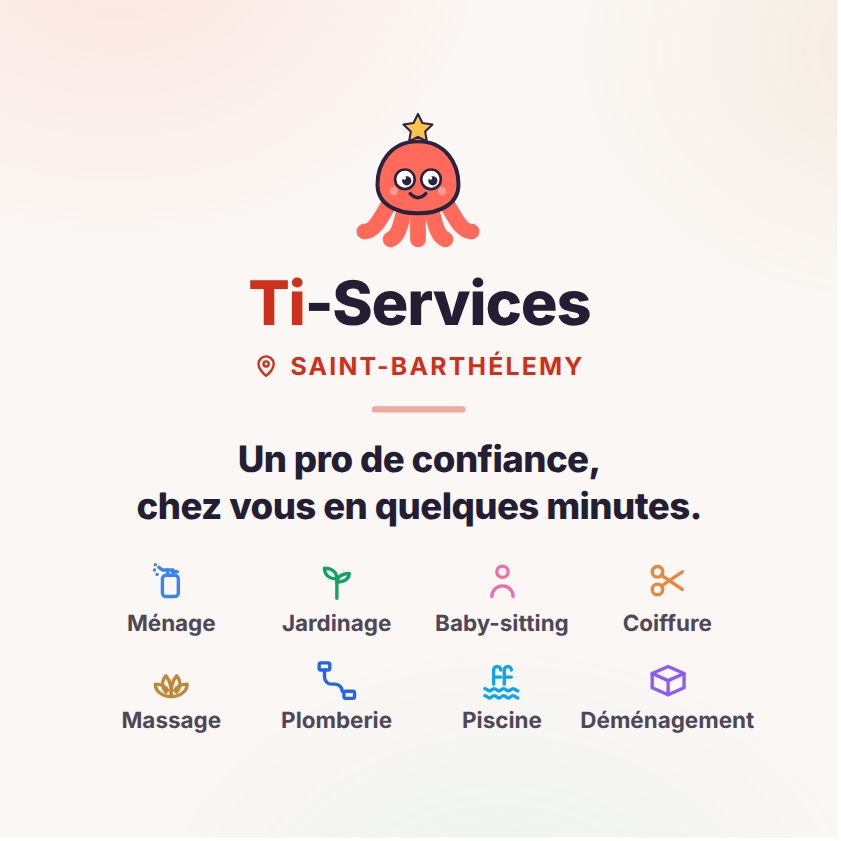
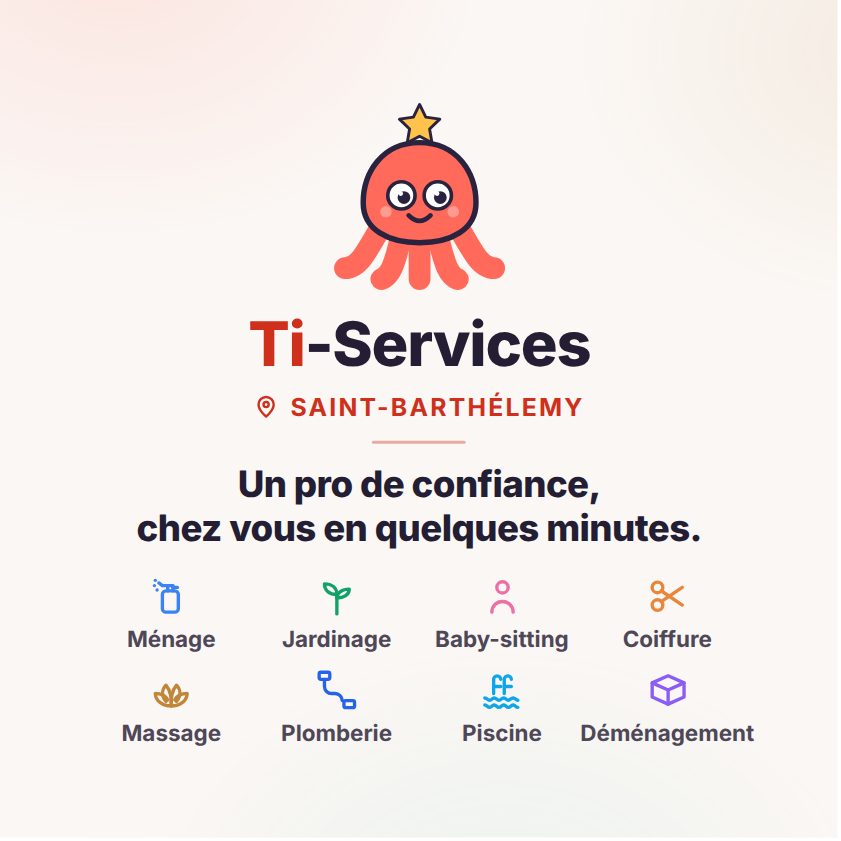
Zouti grossit, la date d'ouverture quitte la carte
Trois retouches demandées sur les cartes de visite.

LA DATE D'OUVERTURE PART. Le verso prestataire annonçait « les services
ouvrent le 1er octobre » ; il reprend la promesse qui ne périme pas — « zéro
abonnement · paiement garanti », les pastilles de confiance de la vitrine. Une
carte se garde des mois, une date passe.

ZOUTI GROSSIT DE 39 % — 12,5 à 17,4 mm de haut. « C'est ce qui attire l'œil. »
Les millimètres viennent des espacements (le filet, la grille des métiers,
l'écart sous le logo), JAMAIS de la marge de sécurité : le script la mesure et
refuse d'écrire un PDF qui la mord. Mesuré après : 8,0 mm sur le recto client —
la limite exacte, et c'est voulu, la carte est pleine.

LA PHRASE DU PRESTATAIRE dit maintenant le parcours entier plutôt que la
liberté : « Une notification, une mission, une facture et un paiement
automatique. » Le retour à la ligne est écrit — laissée à l'équilibrage
automatique, elle coupait après « une », qui ne veut rien dire en fin de ligne.

Au passage, le pied du verso prestataire tenait sur deux lignes avec le point
médian en tête de la seconde : sa mesure passe à 50 mm, il tient sur une ligne
comme celui du verso client.

Claude-Session: https://claude.ai/code/session_01B1qVriNodXiFWvRCrD4uyG

diff --git a/outils/cartes/carte-pro-verso.html b/outils/cartes/carte-pro-verso.html
@@ -31,14 +31,17 @@
      après coup : la grille des métiers a coûté une dizaine de millimètres de hauteur, et
      tout le bloc du haut les a rendus. Toucher l'une de ces valeurs demande de relancer —
      le script refuse d'écrire un PDF dont le contenu déborde. */
-  .zouti{width:11.5mm;height:auto;display:block}
-  .mot{font-weight:800;font-size:5.2mm;letter-spacing:-.02em;line-height:1;margin-top:1.8mm}
+  /* ZOUTI EST CE QUI ATTIRE L'ŒIL : c'est lui qu'on agrandit, et les millimètres qu'il
+     prend viennent des espacements — jamais de la marge de sécurité, que le script
+     vérifie. */
+  .zouti{width:16mm;height:auto;display:block}
+  .mot{font-weight:800;font-size:5.2mm;letter-spacing:-.02em;line-height:1;margin-top:1.4mm}
   .mot b{color:#CE301C;font-weight:800}
   .mot span{color:#231E33}
   .lieu{display:flex;align-items:center;justify-content:center;gap:.9mm;margin-top:1.2mm;
     font-size:2.1mm;font-weight:700;letter-spacing:.09em;text-transform:uppercase;color:#CE301C}
   .lieu svg{width:2.2mm;height:2.2mm}
-  .filet{width:8mm;height:.4mm;border-radius:.4mm;background:#CE301C;opacity:.38;margin:2.2mm 0}
+  .filet{width:8mm;height:.4mm;border-radius:.4mm;background:#CE301C;opacity:.38;margin:1.4mm 0}
   .punch{font-size:3.1mm;font-weight:800;line-height:1.25;letter-spacing:-.015em;color:#231E33;
     text-wrap:balance}
   .services{margin-top:2.8mm;font-size:2.05mm;line-height:1.55;font-weight:500;color:#766F7D;
@@ -47,7 +50,7 @@
      qu'on ait lu son nom, et c'est ce qui fait comprendre « service à domicile » d'un
      regard. Les colonnes sont égales et le nom tient sur UNE ligne — un nom qui passerait
      à deux décalerait sa rangée. */
-  .metiers{margin-top:2.6mm;display:grid;grid-template-columns:repeat(4,1fr);gap:2mm 1mm;width:100%}
+  .metiers{margin-top:2mm;display:grid;grid-template-columns:repeat(4,1fr);gap:1.6mm 1mm;width:100%}
   .metier{display:flex;flex-direction:column;align-items:center;gap:.8mm;min-width:0}
   .metier svg{width:3.6mm;height:3.6mm;display:block;stroke-width:1.9}
   .metier span{font-size:1.9mm;font-weight:600;line-height:1;color:#4E4757;
@@ -65,7 +68,7 @@
      avant le rendu. Une carte n'a pas de place à gaspiller : ce qui tient dans la colonne
      est ce qui rentre. */
   .v-pied{margin-top:2.2mm;font-size:2mm;font-weight:700;letter-spacing:.06em;
-    text-transform:uppercase;color:#fff;opacity:.78;max-width:46mm;text-wrap:balance}
+    text-transform:uppercase;color:#fff;opacity:.78;max-width:50mm;text-wrap:balance}
 
   @page{size:71mm 71mm;margin:0}
   @media print{html,body{margin:0}}</style></head><body><div class="carte verso">
@@ -73,5 +76,5 @@
   <div class="v-titre">Inscrivez-vous</div>
   <div class="tuile"><svg viewBox="0 0 37 37" width="400" height="400" shape-rendering="crispEdges" aria-label="QR-code Ti-Services"><rect width="37" height="37" fill="#fff"/><path d="M4 4h7v1h-7zM12 4h1v1h-1zM14 4h3v1h-3zM19 4h5v1h-5zM26 4h7v1h-7zM4 5h1v1h-1zM10 5h1v1h-1zM12 5h1v1h-1zM14 5h1v1h-1zM16 5h1v1h-1zM18 5h2v1h-2zM22 5h1v1h-1zM24 5h1v1h-1zM26 5h1v1h-1zM32 5h1v1h-1zM4 6h1v1h-1zM6 6h3v1h-3zM10 6h1v1h-1zM15 6h1v1h-1zM17 6h3v1h-3zM22 6h1v1h-1zM26 6h1v1h-1zM28 6h3v1h-3zM32 6h1v1h-1zM4 7h1v1h-1zM6 7h3v1h-3zM10 7h1v1h-1zM12 7h2v1h-2zM15 7h1v1h-1zM20 7h3v1h-3zM24 7h1v1h-1zM26 7h1v1h-1zM28 7h3v1h-3zM32 7h1v1h-1zM4 8h1v1h-1zM6 8h3v1h-3zM10 8h1v1h-1zM14 8h1v1h-1zM16 8h2v1h-2zM22 8h2v1h-2zM26 8h1v1h-1zM28 8h3v1h-3zM32 8h1v1h-1zM4 9h1v1h-1zM10 9h1v1h-1zM18 9h1v1h-1zM21 9h3v1h-3zM26 9h1v1h-1zM32 9h1v1h-1zM4 10h7v1h-7zM12 10h1v1h-1zM14 10h1v1h-1zM16 10h1v1h-1zM18 10h1v1h-1zM20 10h1v1h-1zM22 10h1v1h-1zM24 10h1v1h-1zM26 10h7v1h-7zM12 11h1v1h-1zM14 11h1v1h-1zM17 11h2v1h-2zM21 11h3v1h-3zM4 12h1v1h-1zM6 12h2v1h-2zM9 12h3v1h-3zM16 12h3v1h-3zM20 12h4v1h-4zM26 12h1v1h-1zM29 12h1v1h-1zM31 12h2v1h-2zM4 13h1v1h-1zM7 13h1v1h-1zM11 13h1v1h-1zM13 13h4v1h-4zM19 13h2v1h-2zM23 13h6v1h-6zM32 13h1v1h-1zM6 14h1v1h-1zM10 14h1v1h-1zM14 14h2v1h-2zM18 14h2v1h-2zM21 14h1v1h-1zM24 14h2v1h-2zM28 14h1v1h-1zM30 14h2v1h-2zM4 15h1v1h-1zM8 15h2v1h-2zM12 15h2v1h-2zM16 15h4v1h-4zM24 15h3v1h-3zM32 15h1v1h-1zM7 16h1v1h-1zM9 16h2v1h-2zM14 16h1v1h-1zM20 16h2v1h-2zM23 16h1v1h-1zM27 16h1v1h-1zM29 16h2v1h-2zM5 17h2v1h-2zM9 17h1v1h-1zM11 17h2v1h-2zM14 17h4v1h-4zM21 17h6v1h-6zM30 17h3v1h-3zM5 18h1v1h-1zM8 18h1v1h-1zM10 18h3v1h-3zM16 18h1v1h-1zM18 18h1v1h-1zM21 18h1v1h-1zM23 18h2v1h-2zM26 18h2v1h-2zM30 18h3v1h-3zM4 19h2v1h-2zM7 19h1v1h-1zM9 19h1v1h-1zM11 19h5v1h-5zM17 19h1v1h-1zM19 19h1v1h-1zM22 19h2v1h-2zM25 19h3v1h-3zM31 19h1v1h-1zM5 20h2v1h-2zM8 20h5v1h-5zM16 20h1v1h-1zM22 20h1v1h-1zM25 20h1v1h-1zM27 20h3v1h-3zM31 20h1v1h-1zM5 21h1v1h-1zM7 21h1v1h-1zM12 21h1v1h-1zM15 21h1v1h-1zM17 21h1v1h-1zM21 21h1v1h-1zM24 21h2v1h-2zM29 21h3v1h-3zM4 22h1v1h-1zM6 22h7v1h-7zM14 22h2v1h-2zM21 22h1v1h-1zM24 22h1v1h-1zM27 22h2v1h-2zM30 22h1v1h-1zM11 23h3v1h-3zM15 23h1v1h-1zM19 23h4v1h-4zM26 23h3v1h-3zM30 23h1v1h-1zM5 24h1v1h-1zM8 24h5v1h-5zM14 24h2v1h-2zM17 24h1v1h-1zM19 24h1v1h-1zM23 24h8v1h-8zM12 25h1v1h-1zM15 25h1v1h-1zM17 25h3v1h-3zM21 25h2v1h-2zM24 25h1v1h-1zM28 25h5v1h-5zM4 26h7v1h-7zM12 26h1v1h-1zM14 26h1v1h-1zM17 26h1v1h-1zM20 26h1v1h-1zM22 26h3v1h-3zM26 26h1v1h-1zM28 26h2v1h-2zM31 26h1v1h-1zM4 27h1v1h-1zM10 27h1v1h-1zM12 27h5v1h-5zM20 27h2v1h-2zM24 27h1v1h-1zM28 27h2v1h-2zM31 27h1v1h-1zM4 28h1v1h-1zM6 28h3v1h-3zM10 28h1v1h-1zM13 28h1v1h-1zM15 28h1v1h-1zM18 28h2v1h-2zM24 28h5v1h-5zM30 28h3v1h-3zM4 29h1v1h-1zM6 29h3v1h-3zM10 29h1v1h-1zM12 29h2v1h-2zM17 29h2v1h-2zM20 29h2v1h-2zM23 29h1v1h-1zM25 29h1v1h-1zM27 29h3v1h-3zM31 29h1v1h-1zM4 30h1v1h-1zM6 30h3v1h-3zM10 30h1v1h-1zM12 30h3v1h-3zM17 30h4v1h-4zM23 30h1v1h-1zM27 30h1v1h-1zM30 30h1v1h-1zM32 30h1v1h-1zM4 31h1v1h-1zM10 31h1v1h-1zM13 31h1v1h-1zM17 31h2v1h-2zM20 31h1v1h-1zM24 31h3v1h-3zM28 31h2v1h-2zM31 31h1v1h-1zM4 32h7v1h-7zM12 32h1v1h-1zM14 32h2v1h-2zM17 32h1v1h-1zM19 32h3v1h-3zM23 32h3v1h-3zM29 32h1v1h-1zM31 32h1v1h-1z" fill="#20233A"/></svg></div>
   <div class="v-url">ti-services.fr</div>
-  <div class="v-pied">Les services ouvrent le 1er octobre</div>
+  <div class="v-pied">Zéro abonnement · paiement garanti</div>
 </div></body></html>

diff --git a/outils/cartes-visite.js b/outils/cartes-visite.js
@@ -143,10 +143,12 @@ const CARTES = [
     cle: 'pro',
     url: 'https://ti-services.fr/?pro',
     punch: 'Des clients,<br>sans prospecter.',
-    services: 'Vous choisissez vos missions · Vous êtes payé après validation',
+    // Le retour est écrit : laissée à l'équilibrage automatique, la phrase coupait après
+    // « une », qui ne veut rien dire tout seul en fin de ligne.
+    services: 'Une notification, une mission,<br>une facture et un paiement automatique',
     metiers: null,
     versoTitre: 'Inscrivez-vous',
-    versoPied: 'Les services ouvrent le 1er octobre'
+    versoPied: 'Zéro abonnement · paiement garanti'
   }
 ];
 
@@ -180,14 +182,17 @@ function feuille(c, polices) {
      après coup : la grille des métiers a coûté une dizaine de millimètres de hauteur, et
      tout le bloc du haut les a rendus. Toucher l'une de ces valeurs demande de relancer —
      le script refuse d'écrire un PDF dont le contenu déborde. */
-  .zouti{width:11.5mm;height:auto;display:block}
-  .mot{font-weight:800;font-size:5.2mm;letter-spacing:-.02em;line-height:1;margin-top:1.8mm}
+  /* ZOUTI EST CE QUI ATTIRE L'ŒIL : c'est lui qu'on agrandit, et les millimètres qu'il
+     prend viennent des espacements — jamais de la marge de sécurité, que le script
+     vérifie. */
+  .zouti{width:16mm;height:auto;display:block}
+  .mot{font-weight:800;font-size:5.2mm;letter-spacing:-.02em;line-height:1;margin-top:1.4mm}
   .mot b{color:${c['teal-deep']};font-weight:800}
   .mot span{color:${c['ink']}}
   .lieu{display:flex;align-items:center;justify-content:center;gap:.9mm;margin-top:1.2mm;
     font-size:2.1mm;font-weight:700;letter-spacing:.09em;text-transform:uppercase;color:${c['teal-deep']}}
   .lieu svg{width:2.2mm;height:2.2mm}
-  .filet{width:8mm;height:.4mm;border-radius:.4mm;background:${c['teal-deep']};opacity:.38;margin:2.2mm 0}
+  .filet{width:8mm;height:.4mm;border-radius:.4mm;background:${c['teal-deep']};opacity:.38;margin:1.4mm 0}
   .punch{font-size:3.1mm;font-weight:800;line-height:1.25;letter-spacing:-.015em;color:${c['ink']};
     text-wrap:balance}
   .services{margin-top:2.8mm;font-size:2.05mm;line-height:1.55;font-weight:500;color:${c['muted']};
@@ -196,7 +201,7 @@ function feuille(c, polices) {
      qu'on ait lu son nom, et c'est ce qui fait comprendre « service à domicile » d'un
      regard. Les colonnes sont égales et le nom tient sur UNE ligne — un nom qui passerait
      à deux décalerait sa rangée. */
-  .metiers{margin-top:2.6mm;display:grid;grid-template-columns:repeat(4,1fr);gap:2mm 1mm;width:100%}
+  .metiers{margin-top:2mm;display:grid;grid-template-columns:repeat(4,1fr);gap:1.6mm 1mm;width:100%}
   .metier{display:flex;flex-direction:column;align-items:center;gap:.8mm;min-width:0}
   .metier svg{width:3.6mm;height:3.6mm;display:block;stroke-width:1.9}
   .metier span{font-size:1.9mm;font-weight:600;line-height:1;color:${c['ink-soft']};
@@ -214,7 +219,7 @@ function feuille(c, polices) {
      avant le rendu. Une carte n'a pas de place à gaspiller : ce qui tient dans la colonne
      est ce qui rentre. */
   .v-pied{margin-top:2.2mm;font-size:2mm;font-weight:700;letter-spacing:.06em;
-    text-transform:uppercase;color:#fff;opacity:.78;max-width:46mm;text-wrap:balance}
+    text-transform:uppercase;color:#fff;opacity:.78;max-width:50mm;text-wrap:balance}
 
   @page{size:${MM.page}mm ${MM.page}mm;margin:0}
   @media print{html,body{margin:0}}`;

diff --git a/outils/cartes/carte-pro-recto.html b/outils/cartes/carte-pro-recto.html
@@ -31,14 +31,17 @@
      après coup : la grille des métiers a coûté une dizaine de millimètres de hauteur, et
      tout le bloc du haut les a rendus. Toucher l'une de ces valeurs demande de relancer —
      le script refuse d'écrire un PDF dont le contenu déborde. */
-  .zouti{width:11.5mm;height:auto;display:block}
-  .mot{font-weight:800;font-size:5.2mm;letter-spacing:-.02em;line-height:1;margin-top:1.8mm}
+  /* ZOUTI EST CE QUI ATTIRE L'ŒIL : c'est lui qu'on agrandit, et les millimètres qu'il
+     prend viennent des espacements — jamais de la marge de sécurité, que le script
+     vérifie. */
+  .zouti{width:16mm;height:auto;display:block}
+  .mot{font-weight:800;font-size:5.2mm;letter-spacing:-.02em;line-height:1;margin-top:1.4mm}
   .mot b{color:#CE301C;font-weight:800}
   .mot span{color:#231E33}
   .lieu{display:flex;align-items:center;justify-content:center;gap:.9mm;margin-top:1.2mm;
     font-size:2.1mm;font-weight:700;letter-spacing:.09em;text-transform:uppercase;color:#CE301C}
   .lieu svg{width:2.2mm;height:2.2mm}
-  .filet{width:8mm;height:.4mm;border-radius:.4mm;background:#CE301C;opacity:.38;margin:2.2mm 0}
+  .filet{width:8mm;height:.4mm;border-radius:.4mm;background:#CE301C;opacity:.38;margin:1.4mm 0}
   .punch{font-size:3.1mm;font-weight:800;line-height:1.25;letter-spacing:-.015em;color:#231E33;
     text-wrap:balance}
   .services{margin-top:2.8mm;font-size:2.05mm;line-height:1.55;font-weight:500;color:#766F7D;
@@ -47,7 +50,7 @@
      qu'on ait lu son nom, et c'est ce qui fait comprendre « service à domicile » d'un
      regard. Les colonnes sont égales et le nom tient sur UNE ligne — un nom qui passerait
      à deux décalerait sa rangée. */
-  .metiers{margin-top:2.6mm;display:grid;grid-template-columns:repeat(4,1fr);gap:2mm 1mm;width:100%}
+  .metiers{margin-top:2mm;display:grid;grid-template-columns:repeat(4,1fr);gap:1.6mm 1mm;width:100%}
   .metier{display:flex;flex-direction:column;align-items:center;gap:.8mm;min-width:0}
   .metier svg{width:3.6mm;height:3.6mm;display:block;stroke-width:1.9}
   .metier span{font-size:1.9mm;font-weight:600;line-height:1;color:#4E4757;
@@ -65,7 +68,7 @@
      avant le rendu. Une carte n'a pas de place à gaspiller : ce qui tient dans la colonne
      est ce qui rentre. */
   .v-pied{margin-top:2.2mm;font-size:2mm;font-weight:700;letter-spacing:.06em;
-    text-transform:uppercase;color:#fff;opacity:.78;max-width:46mm;text-wrap:balance}
+    text-transform:uppercase;color:#fff;opacity:.78;max-width:50mm;text-wrap:balance}
 
   @page{size:71mm 71mm;margin:0}
   @media print{html,body{margin:0}}</style></head><body><div class="carte recto">
@@ -93,5 +96,5 @@
   <div class="lieu"><svg viewBox="0 0 24 24" fill="none" stroke="currentColor" stroke-width="2.2" stroke-linecap="round" stroke-linejoin="round"><path d="M12 21s-7-5.5-7-11a7 7 0 0 1 14 0c0 5.5-7 11-7 11z"/><circle cx="12" cy="10" r="2.4"/></svg>Saint-Barthélemy</div>
   <div class="filet"></div>
   <div class="punch">Des clients,<br>sans prospecter.</div>
-  <div class="services">Vous choisissez vos missions · Vous êtes payé après validation</div>
+  <div class="services">Une notification, une mission,<br>une facture et un paiement automatique</div>
 </div></body></html>

diff --git a/outils/cartes/carte-client-recto.html b/outils/cartes/carte-client-recto.html
@@ -31,14 +31,17 @@
      après coup : la grille des métiers a coûté une dizaine de millimètres de hauteur, et
      tout le bloc du haut les a rendus. Toucher l'une de ces valeurs demande de relancer —
      le script refuse d'écrire un PDF dont le contenu déborde. */
-  .zouti{width:11.5mm;height:auto;display:block}
-  .mot{font-weight:800;font-size:5.2mm;letter-spacing:-.02em;line-height:1;margin-top:1.8mm}
+  /* ZOUTI EST CE QUI ATTIRE L'ŒIL : c'est lui qu'on agrandit, et les millimètres qu'il
+     prend viennent des espacements — jamais de la marge de sécurité, que le script
+     vérifie. */
+  .zouti{width:16mm;height:auto;display:block}
+  .mot{font-weight:800;font-size:5.2mm;letter-spacing:-.02em;line-height:1;margin-top:1.4mm}
   .mot b{color:#CE301C;font-weight:800}
   .mot span{color:#231E33}
   .lieu{display:flex;align-items:center;justify-content:center;gap:.9mm;margin-top:1.2mm;
     font-size:2.1mm;font-weight:700;letter-spacing:.09em;text-transform:uppercase;color:#CE301C}
   .lieu svg{width:2.2mm;height:2.2mm}
-  .filet{width:8mm;height:.4mm;border-radius:.4mm;background:#CE301C;opacity:.38;margin:2.2mm 0}
+  .filet{width:8mm;height:.4mm;border-radius:.4mm;background:#CE301C;opacity:.38;margin:1.4mm 0}
   .punch{font-size:3.1mm;font-weight:800;line-height:1.25;letter-spacing:-.015em;color:#231E33;
     text-wrap:balance}
   .services{margin-top:2.8mm;font-size:2.05mm;line-height:1.55;font-weight:500;color:#766F7D;
@@ -47,7 +50,7 @@
      qu'on ait lu son nom, et c'est ce qui fait comprendre « service à domicile » d'un
      regard. Les colonnes sont égales et le nom tient sur UNE ligne — un nom qui passerait
      à deux décalerait sa rangée. */
-  .metiers{margin-top:2.6mm;display:grid;grid-template-columns:repeat(4,1fr);gap:2mm 1mm;width:100%}
+  .metiers{margin-top:2mm;display:grid;grid-template-columns:repeat(4,1fr);gap:1.6mm 1mm;width:100%}
   .metier{display:flex;flex-direction:column;align-items:center;gap:.8mm;min-width:0}
   .metier svg{width:3.6mm;height:3.6mm;display:block;stroke-width:1.9}
   .metier span{font-size:1.9mm;font-weight:600;line-height:1;color:#4E4757;
@@ -65,7 +68,7 @@
      avant le rendu. Une carte n'a pas de place à gaspiller : ce qui tient dans la colonne
      est ce qui rentre. */
   .v-pied{margin-top:2.2mm;font-size:2mm;font-weight:700;letter-spacing:.06em;
-    text-transform:uppercase;color:#fff;opacity:.78;max-width:46mm;text-wrap:balance}
+    text-transform:uppercase;color:#fff;opacity:.78;max-width:50mm;text-wrap:balance}
 
   @page{size:71mm 71mm;margin:0}
   @media print{html,body{margin:0}}</style></head><body><div class="carte recto">

diff --git a/outils/cartes/carte-client-verso.html b/outils/cartes/carte-client-verso.html
@@ -31,14 +31,17 @@
      après coup : la grille des métiers a coûté une dizaine de millimètres de hauteur, et
      tout le bloc du haut les a rendus. Toucher l'une de ces valeurs demande de relancer —
      le script refuse d'écrire un PDF dont le contenu déborde. */
-  .zouti{width:11.5mm;height:auto;display:block}
-  .mot{font-weight:800;font-size:5.2mm;letter-spacing:-.02em;line-height:1;margin-top:1.8mm}
+  /* ZOUTI EST CE QUI ATTIRE L'ŒIL : c'est lui qu'on agrandit, et les millimètres qu'il
+     prend viennent des espacements — jamais de la marge de sécurité, que le script
+     vérifie. */
+  .zouti{width:16mm;height:auto;display:block}
+  .mot{font-weight:800;font-size:5.2mm;letter-spacing:-.02em;line-height:1;margin-top:1.4mm}
   .mot b{color:#CE301C;font-weight:800}
   .mot span{color:#231E33}
   .lieu{display:flex;align-items:center;justify-content:center;gap:.9mm;margin-top:1.2mm;
     font-size:2.1mm;font-weight:700;letter-spacing:.09em;text-transform:uppercase;color:#CE301C}
   .lieu svg{width:2.2mm;height:2.2mm}
-  .filet{width:8mm;height:.4mm;border-radius:.4mm;background:#CE301C;opacity:.38;margin:2.2mm 0}
+  .filet{width:8mm;height:.4mm;border-radius:.4mm;background:#CE301C;opacity:.38;margin:1.4mm 0}
   .punch{font-size:3.1mm;font-weight:800;line-height:1.25;letter-spacing:-.015em;color:#231E33;
     text-wrap:balance}
   .services{margin-top:2.8mm;font-size:2.05mm;line-height:1.55;font-weight:500;color:#766F7D;
@@ -47,7 +50,7 @@
      qu'on ait lu son nom, et c'est ce qui fait comprendre « service à domicile » d'un
      regard. Les colonnes sont égales et le nom tient sur UNE ligne — un nom qui passerait
      à deux décalerait sa rangée. */
-  .metiers{margin-top:2.6mm;display:grid;grid-template-columns:repeat(4,1fr);gap:2mm 1mm;width:100%}
+  .metiers{margin-top:2mm;display:grid;grid-template-columns:repeat(4,1fr);gap:1.6mm 1mm;width:100%}
   .metier{display:flex;flex-direction:column;align-items:center;gap:.8mm;min-width:0}
   .metier svg{width:3.6mm;height:3.6mm;display:block;stroke-width:1.9}
   .metier span{font-size:1.9mm;font-weight:600;line-height:1;color:#4E4757;
@@ -65,7 +68,7 @@
      avant le rendu. Une carte n'a pas de place à gaspiller : ce qui tient dans la colonne
      est ce qui rentre. */
   .v-pied{margin-top:2.2mm;font-size:2mm;font-weight:700;letter-spacing:.06em;
-    text-transform:uppercase;color:#fff;opacity:.78;max-width:46mm;text-wrap:balance}
+    text-transform:uppercase;color:#fff;opacity:.78;max-width:50mm;text-wrap:balance}
 
   @page{size:71mm 71mm;margin:0}
   @media print{html,body{margin:0}}</style></head><body><div class="carte verso">
